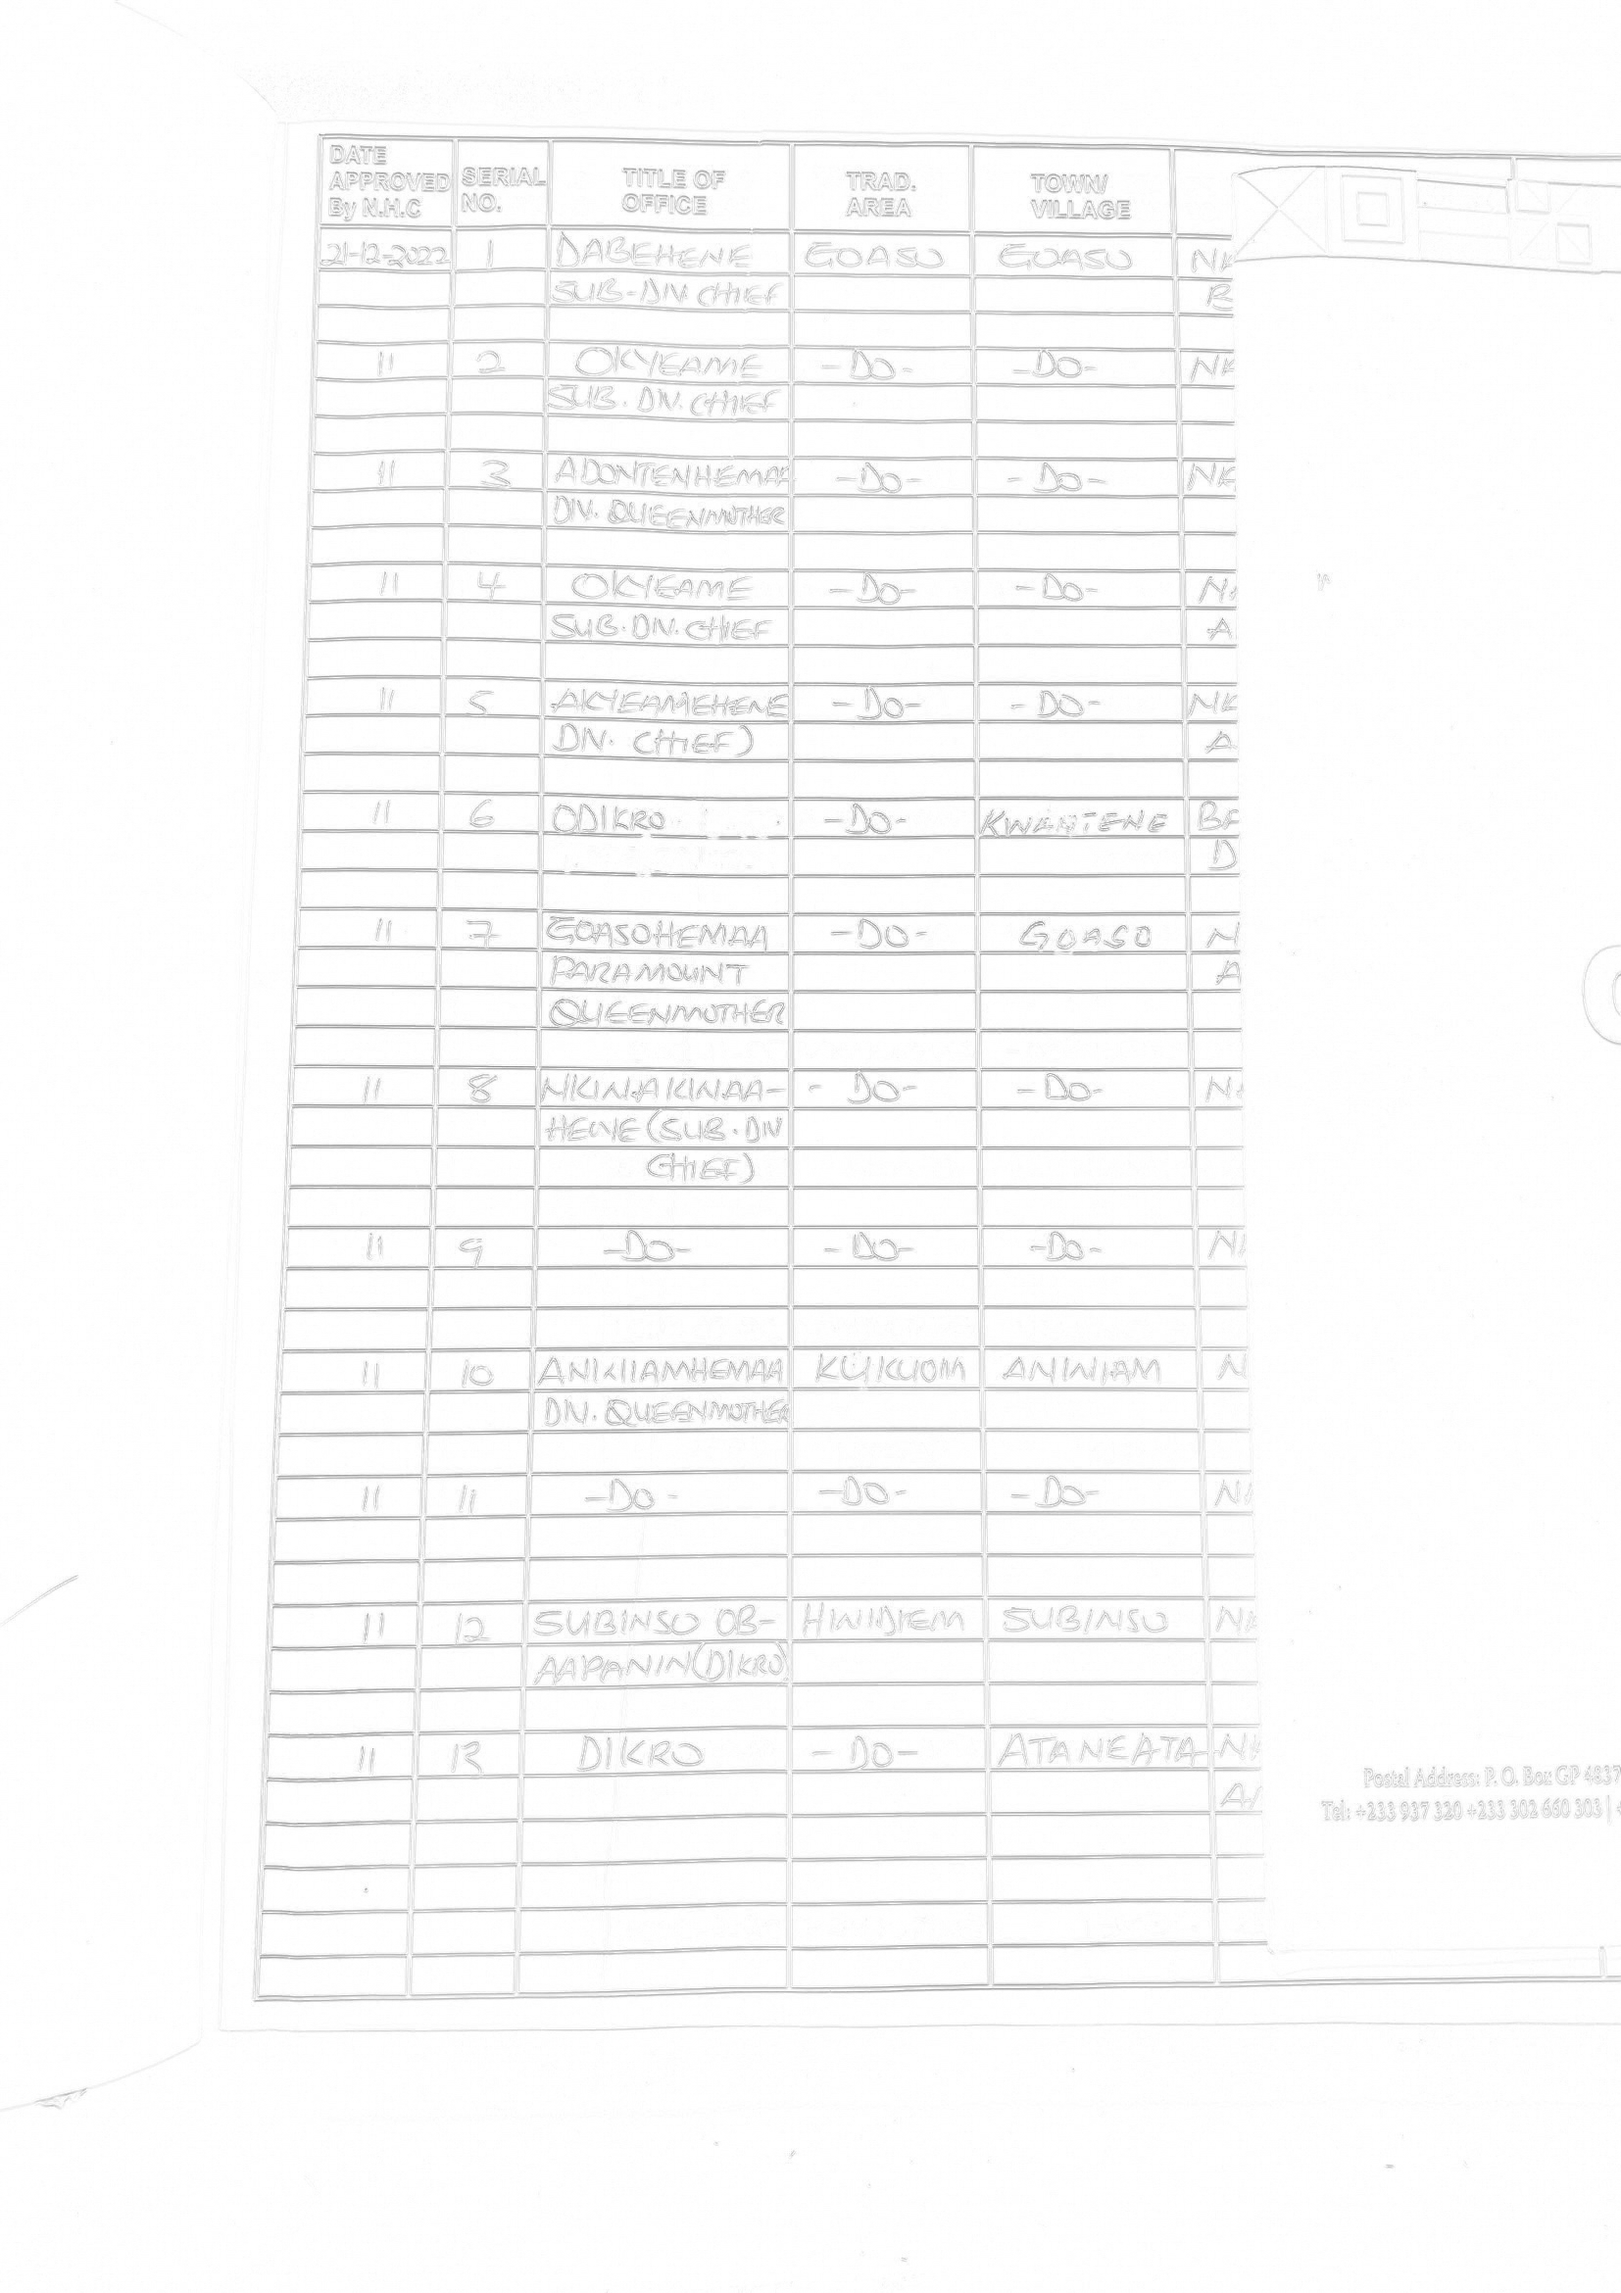
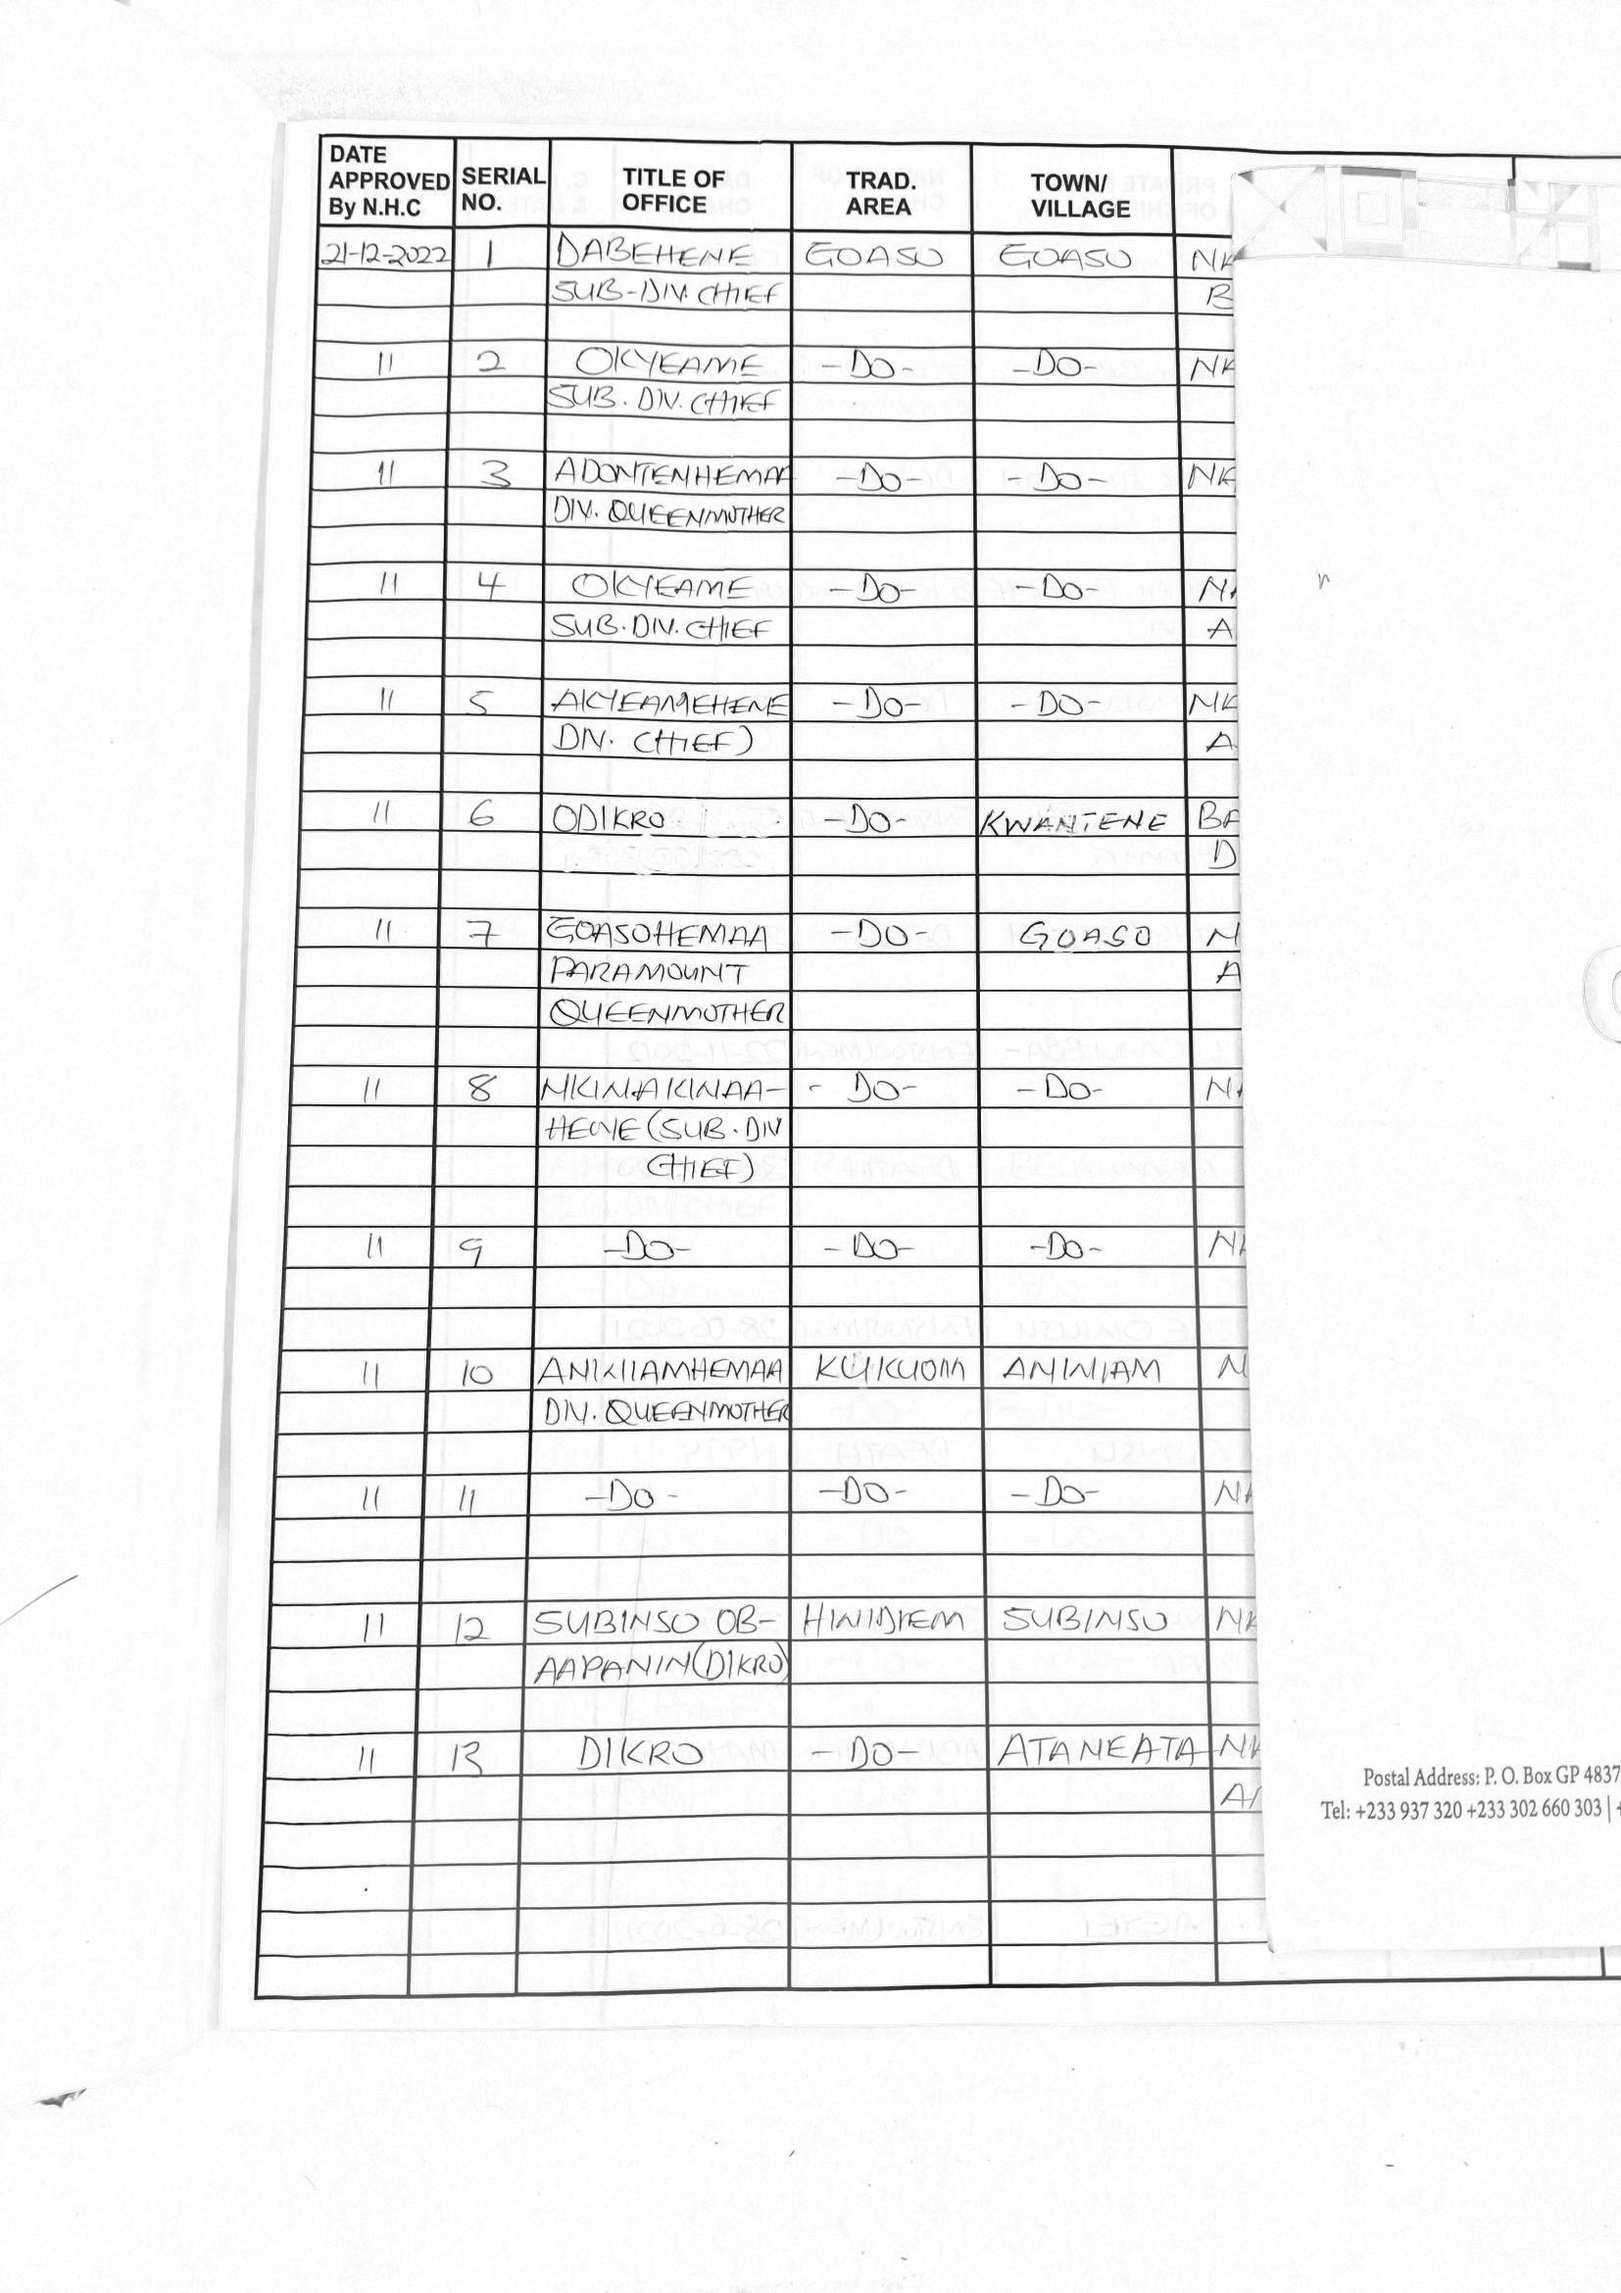
edited morpho

diff --git a/src/segment_morphology.py b/src/segment_morphology.py
@@ -13,8 +13,9 @@ input_dir = "data/raw/ahafo_region/"
 output_dir = "data/processed/cleaned/morphology/"
 os.makedirs(output_dir, exist_ok=True)
 
+import glob
 # Process each PNG page image in the input directory
-for page_path in glob.glob(os.path.join(input_dir, "page_*.png")):
+for page_path in glob.glob(os.path.join(input_dir, "*.png")):
     filename = os.path.basename(page_path)
     base = os.path.splitext(filename)[0]
     # Load image and convert to grayscale
@@ -24,9 +25,11 @@ for page_path in glob.glob(os.path.join(input_dir, "page_*.png")):
     # Apply Gaussian blur to smooth the image
     blurred = cv2.GaussianBlur(gray, (5, 5), 0)
     # Use morphological closing to estimate background
-    bg = cv2.morphologyEx(blurred, cv2.MORPH_CLOSE, (15, 15))
-    # Subtract background from original grayscale image
+    kernel = cv2.getStructuringElement(cv2.MORPH_RECT, (15, 15))
+    bg = cv2.morphologyEx(blurred, cv2.MORPH_CLOSE, kernel)
+    # Subtract background from original grayscale image, invert to get white background and dark ink
     diff = 255 - cv2.absdiff(gray, bg)
+    diff = cv2.normalize(diff, None, 0, 255, cv2.NORM_MINMAX)
 
     # Save the cleaned image to the output directory
     cv2.imwrite(os.path.join(output_dir, f"{base}.png"), diff)
